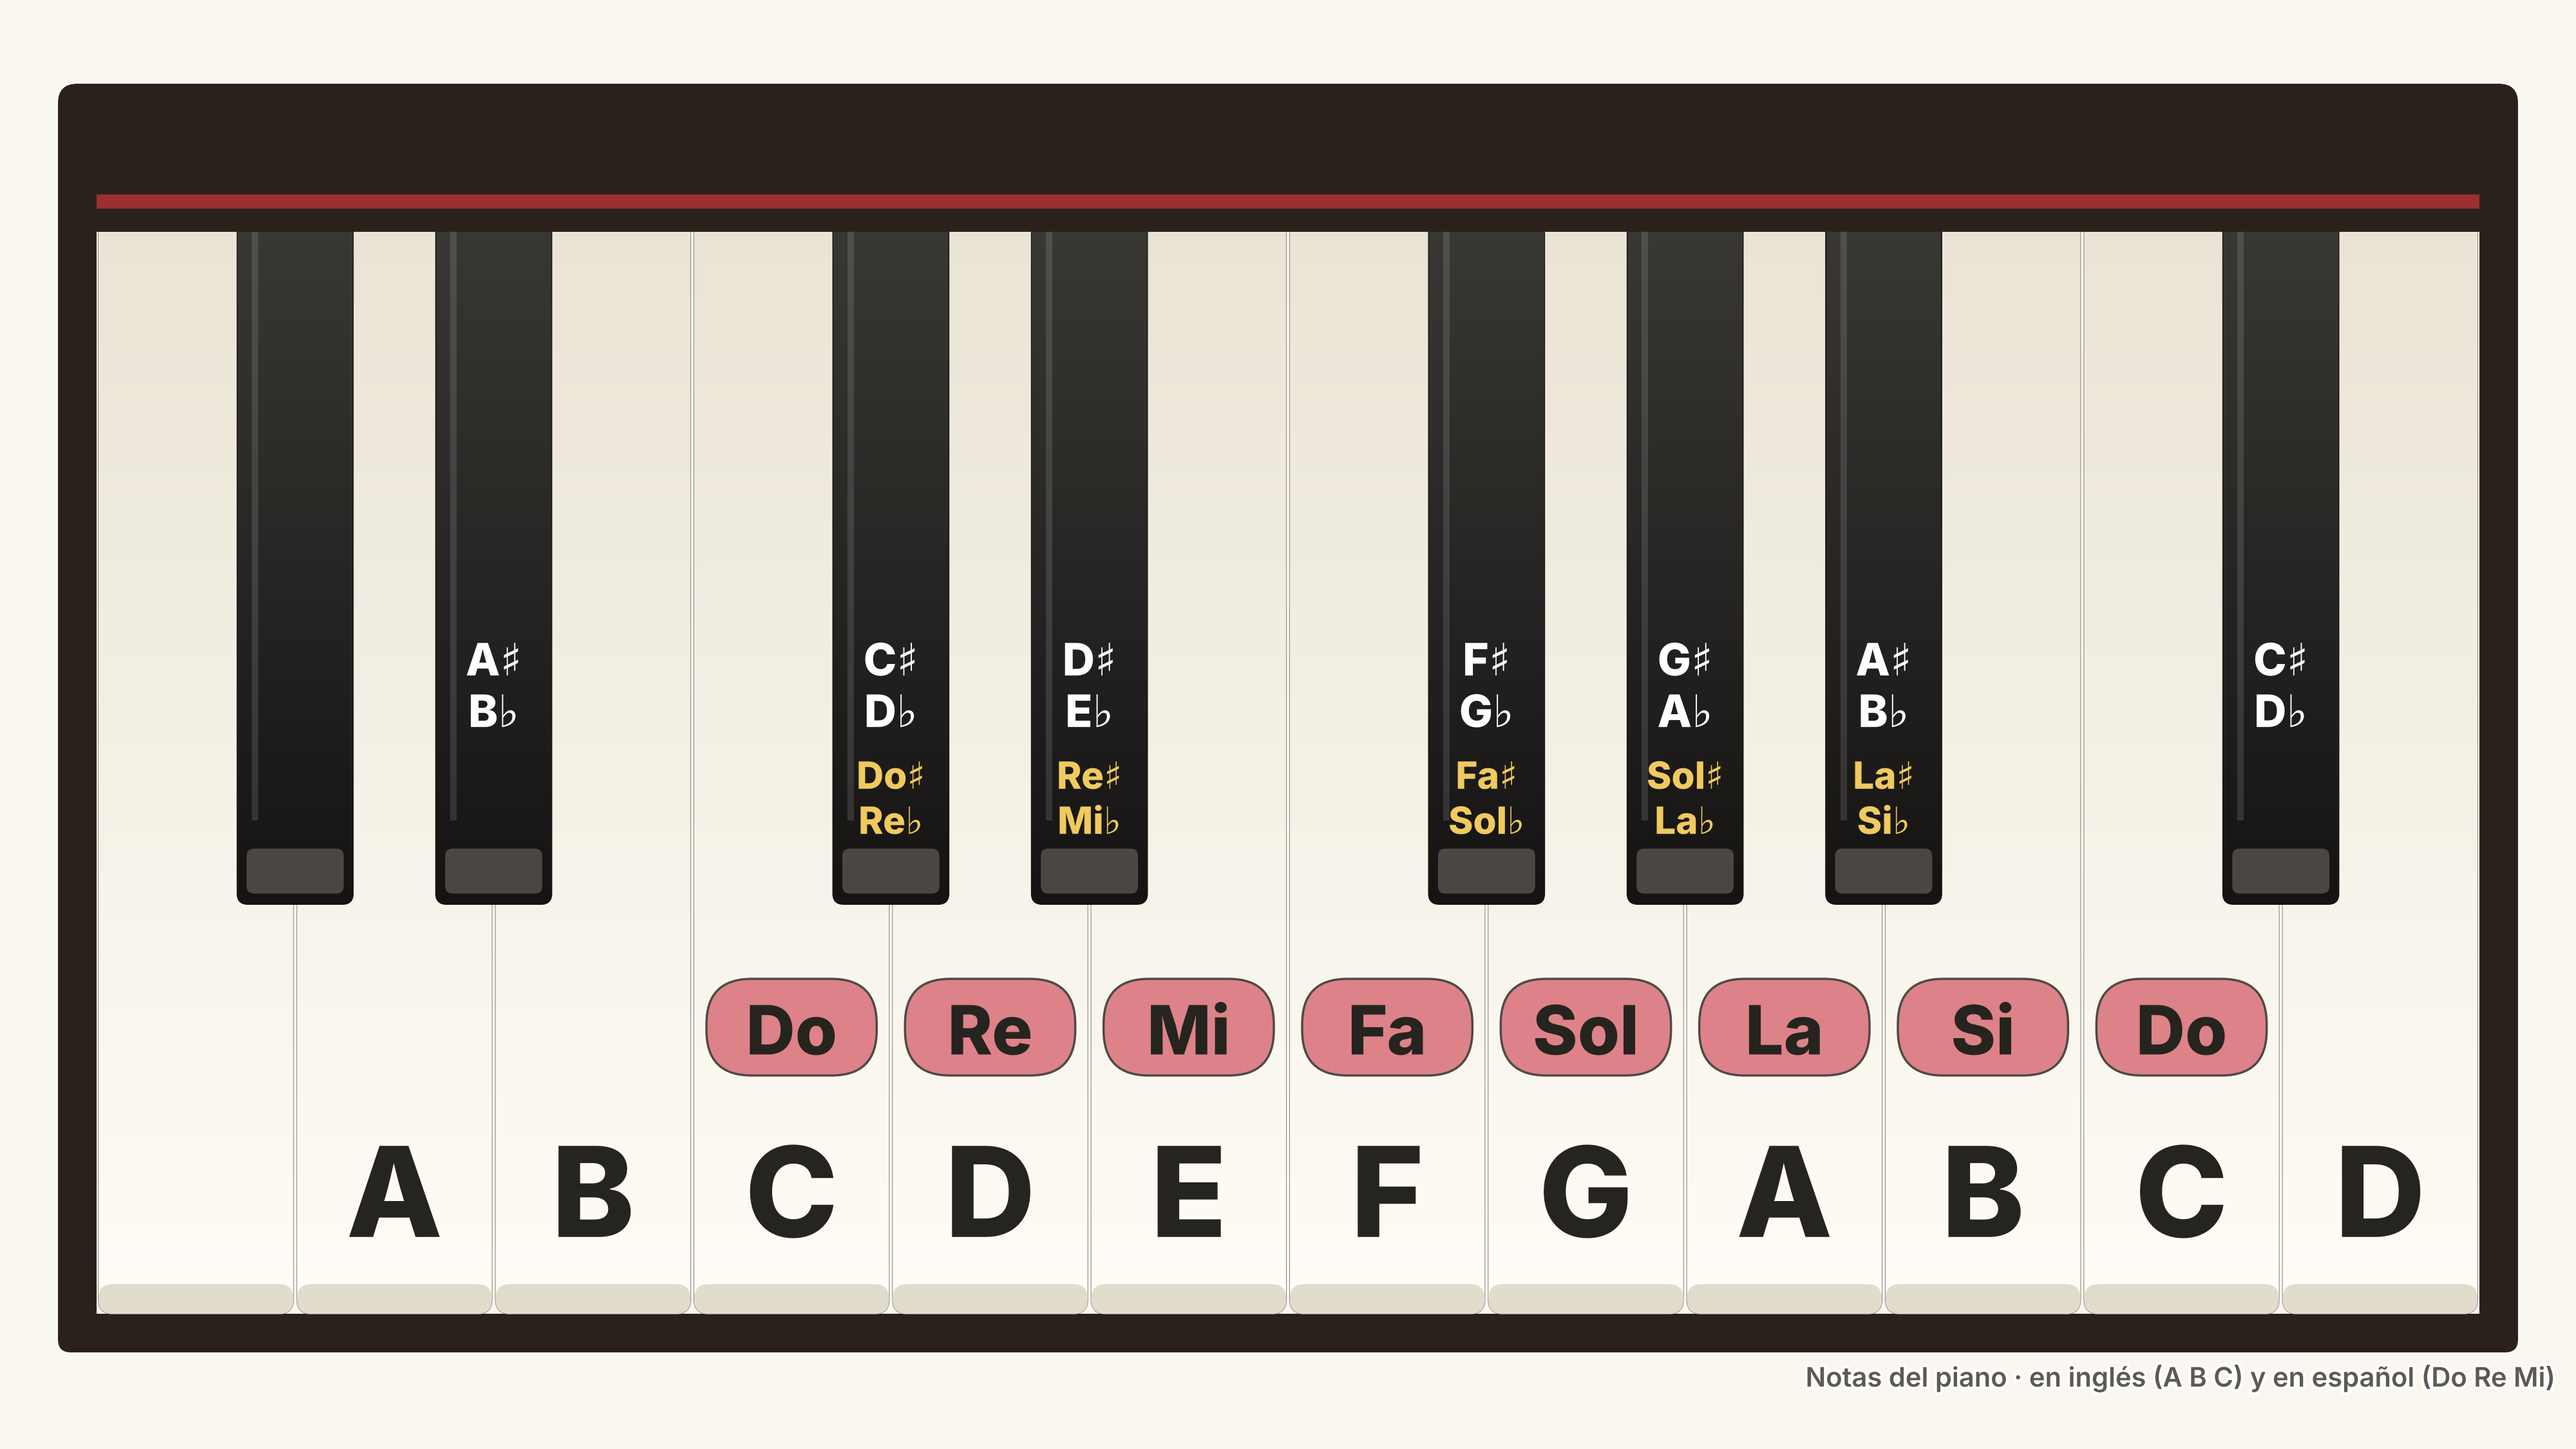
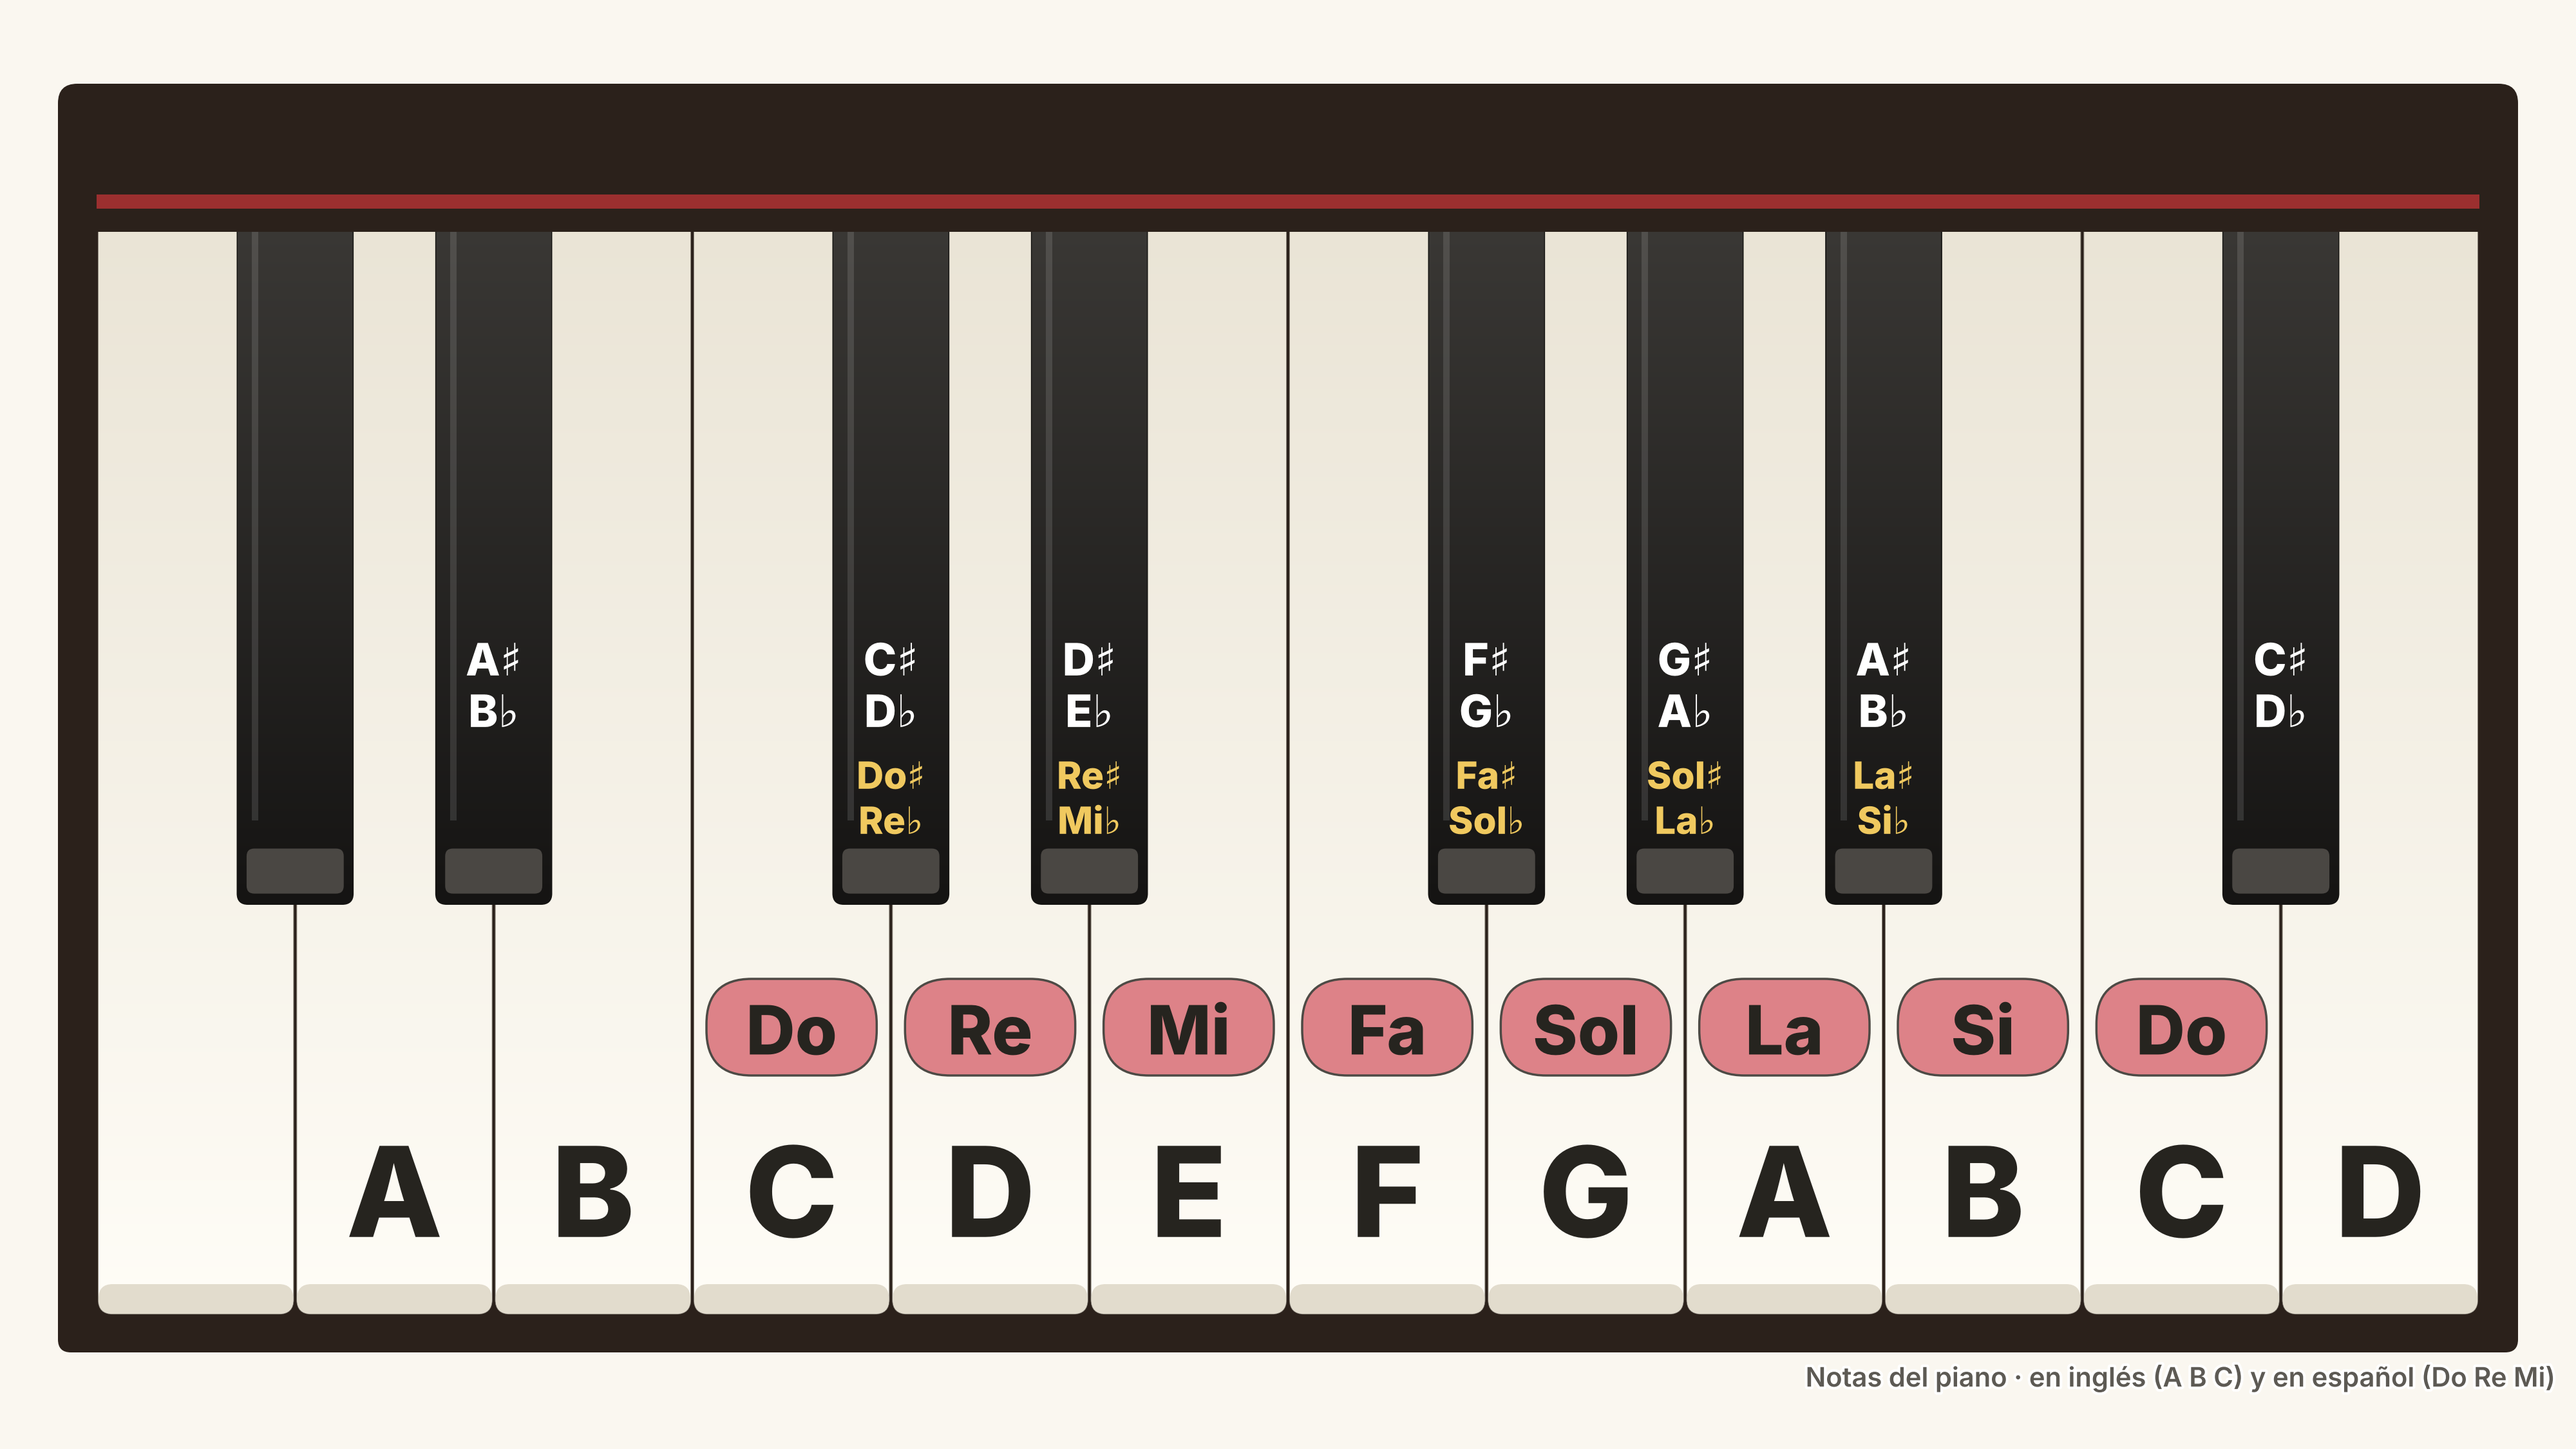
Piano: gap between white keys in every design
Claude-Session: https://claude.ai/code/session_01EDKfW2ymmeBjWjJB1i7hni

diff --git a/tvmaps/maps_piano.py b/tvmaps/maps_piano.py
@@ -120,7 +120,7 @@ def _render(theme_name, footer):
     klen = KEY_TOP - KEY_BOTTOM
     bw, blen = kw * BLACK_W_FRAC, klen * BLACK_LEN_FRAC
     x0 = MARGIN_X
-    gap = 6 if theme_name != "esquema" else 0
+    gap = 6  # without it the keys read as one slab
 
     # Case: a dark lid above the keys with a strip of red felt.
     if t["case"]:
@@ -134,6 +134,9 @@ def _render(theme_name, footer):
         ax.add_patch(_key_patch(x0 - 60, KEY_BOTTOM - 60, n * kw + 120, 60,
                                 20, facecolor=t["case"], edgecolor="none",
                                 zorder=1))
+        # Dark bed behind the keys, so the gaps between them show.
+        ax.add_patch(Rectangle((x0, KEY_BOTTOM), n * kw, klen,
+                               facecolor=t["case"], zorder=1))
         ax.add_patch(Rectangle((x0, KEY_TOP - 4), n * kw, 22,
                                facecolor=t["felt"], zorder=17))
     else:
